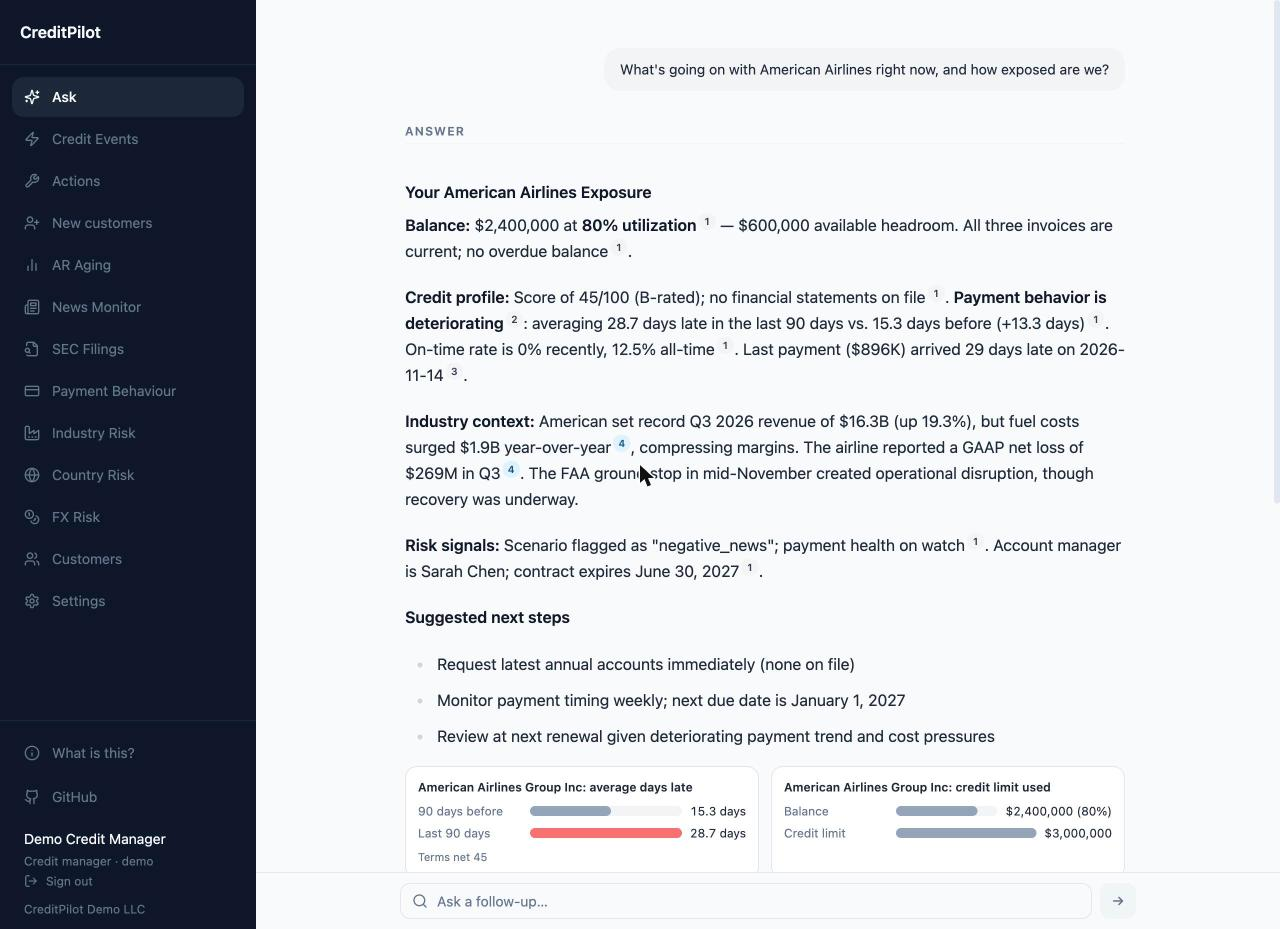
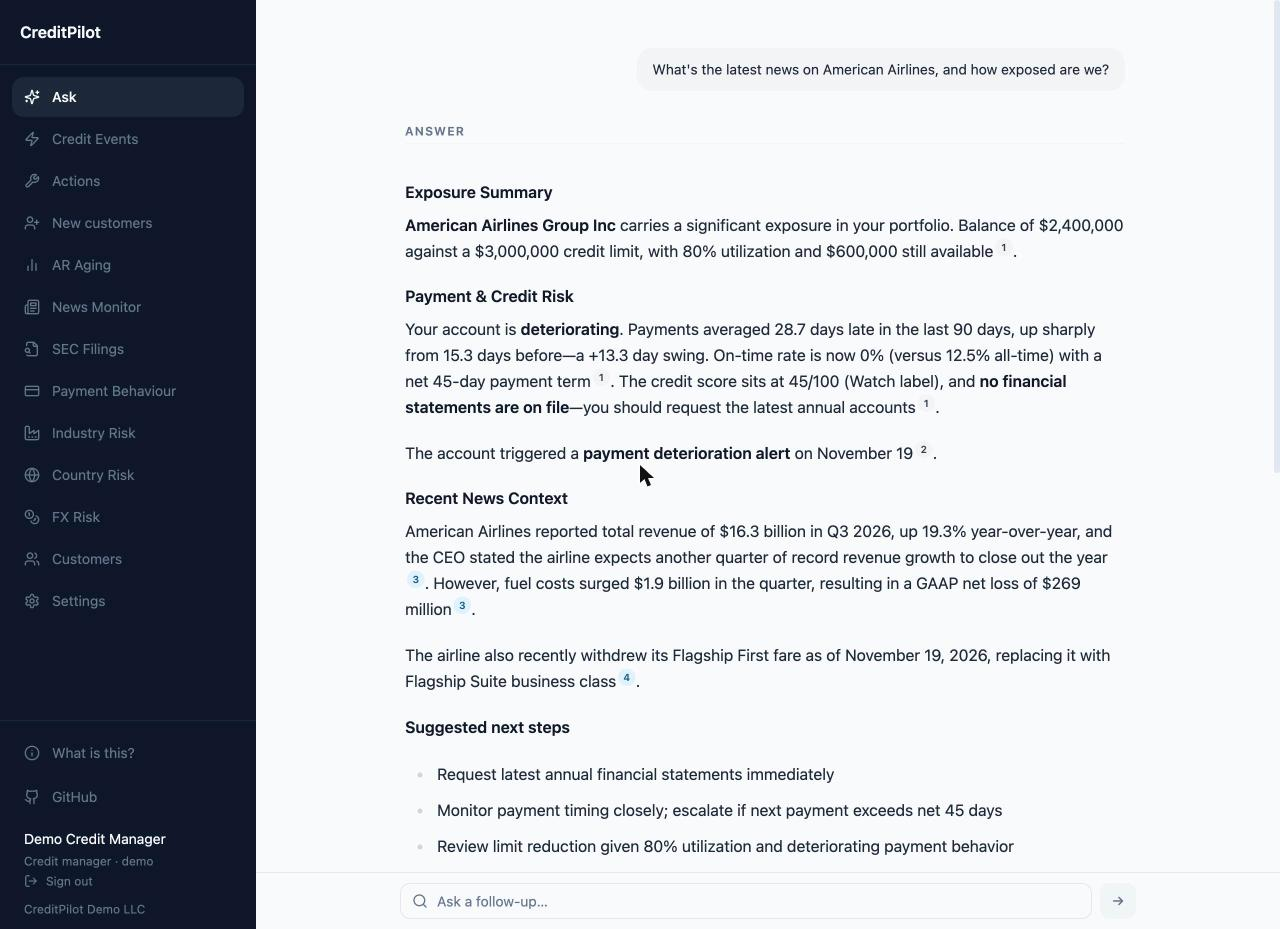
README: answer screenshot after the score-scale fix (#77)
Claude-Session: https://claude.ai/code/session_0119f1ZomSFQbh22hEkA7M3e

Changed region(s): [[0.3125, 0.3122, 0.875, 0.9365], [0.3125, 0.1873, 0.875, 0.2809], [0.4688, 0.0624, 0.7188, 0.0936]]

diff --git a/README.md b/README.md
@@ -21,7 +21,7 @@ Open source (MIT). **Live demo: [creditpilot.vercel.app](https://creditpilot.ver
 | **Keeps the conversation** | Follow-ups stack on the page and keep the context, so "is that more than their limit?" knows who "their" is. |
 | **Shares an answer** | One link opens the question, the answer, its sources and charts. |
 
-![An answer with citations, a web source and charts](docs/images/cia-answer.jpg)
+![An answer with citations from the ledger and the web](docs/images/cia-answer.jpg)
 
 <details>
 <summary>More screenshots: the steps while it works, and a web source opened</summary>
